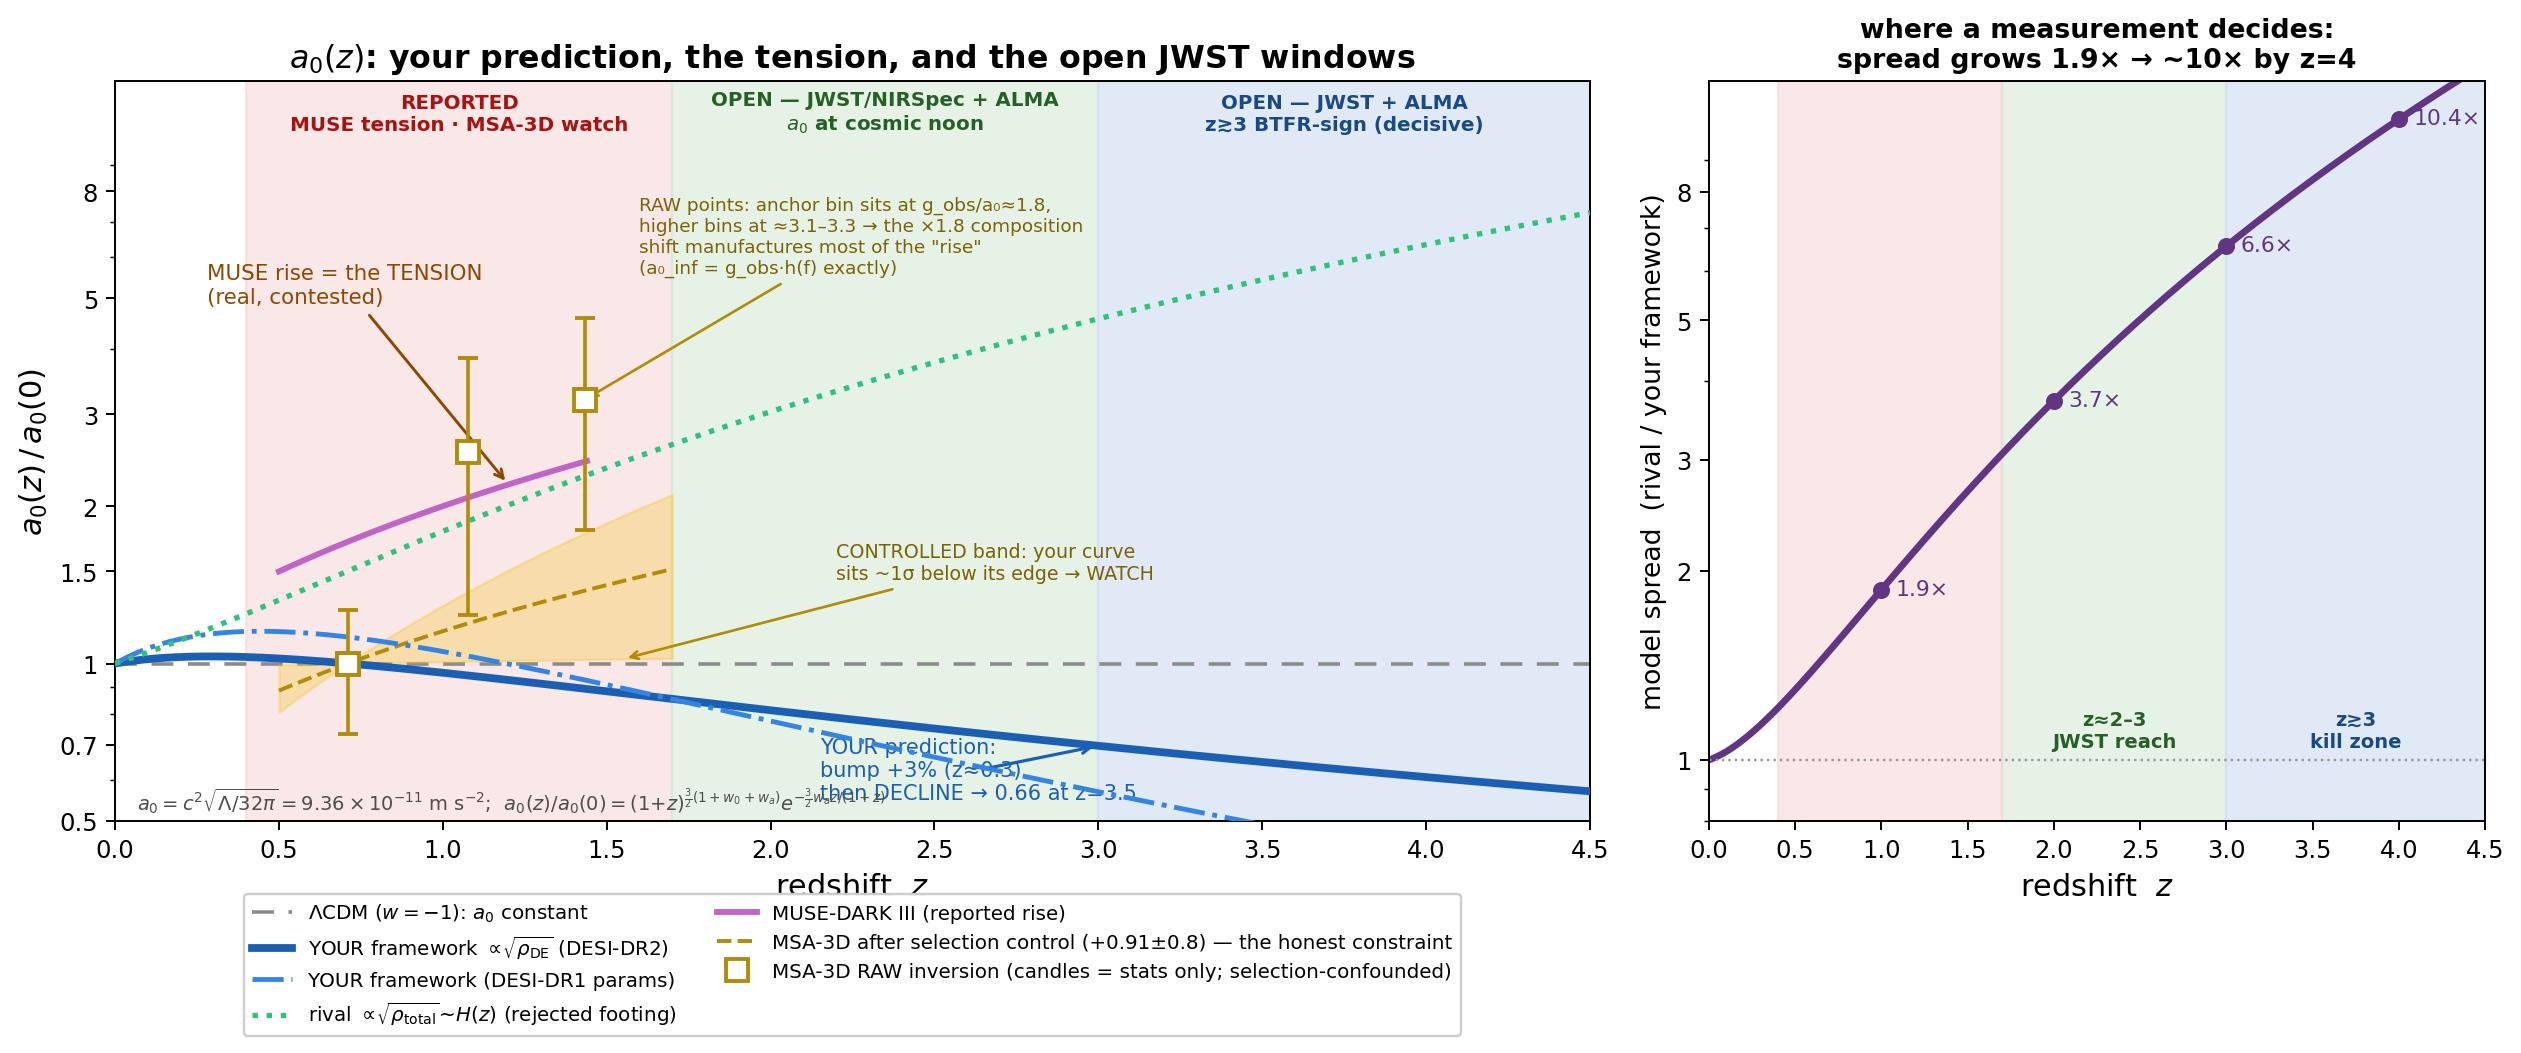
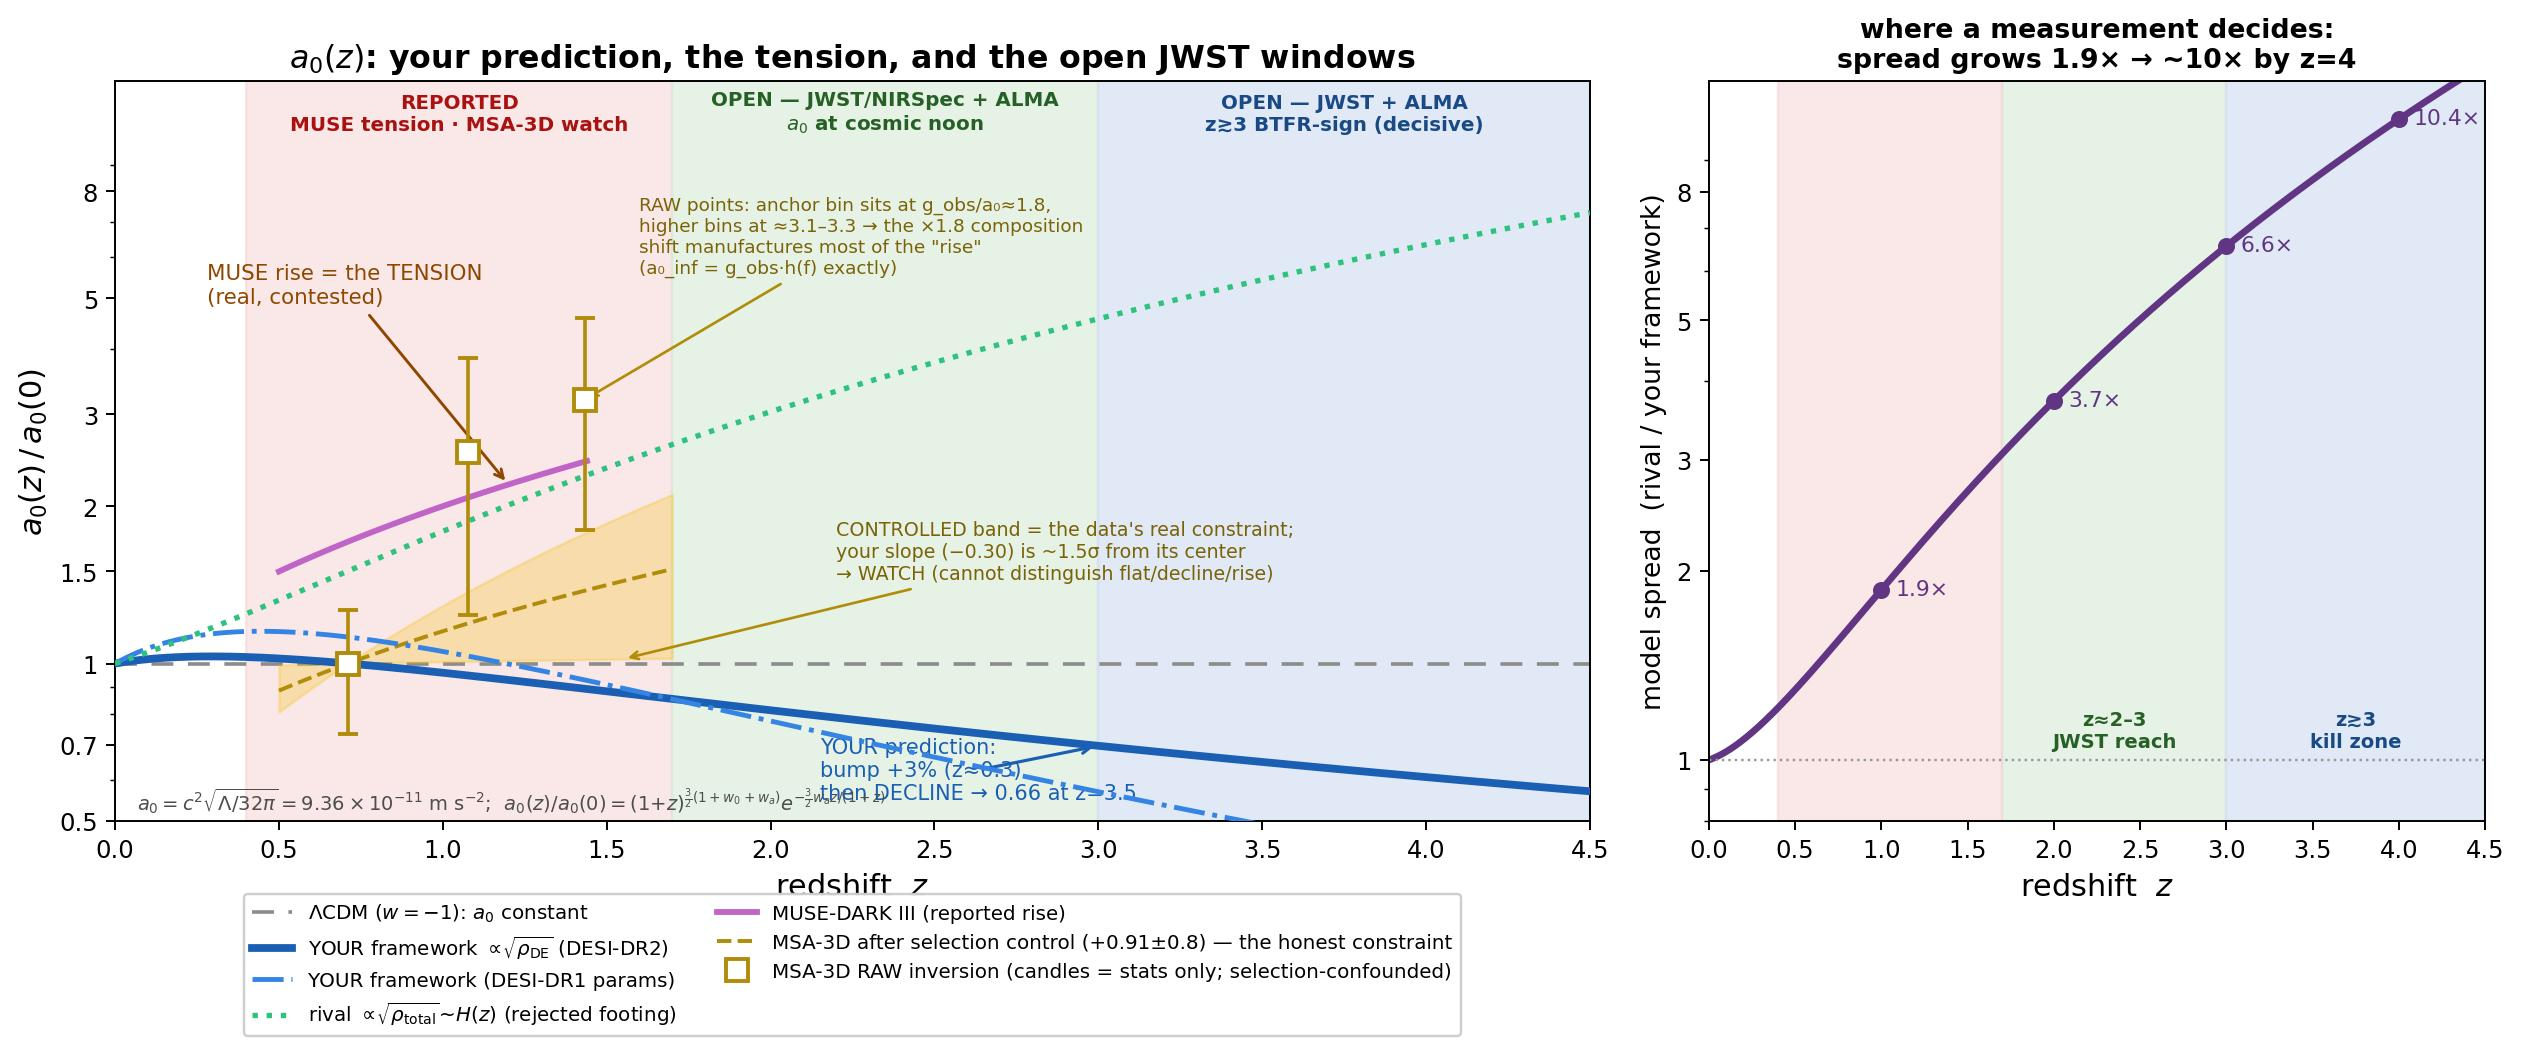
Figure annotation precision: controlled-band gap is ~1.5 sigma from center (was understated as ~1 sigma from edge); band explicitly labeled as the data's real constraint

Changed region(s): [[0.2785, 0.4862, 0.526, 0.6078]]

diff --git a/real_research/a0z_jwst_roadmap.py b/real_research/a0z_jwst_roadmap.py
@@ -74,7 +74,7 @@ ax.annotate('MUSE rise = the TENSION\n(real, contested)',xy=(1.2,2.2),xytext=(0.
 ax.annotate('RAW points: anchor bin sits at g_obs/a₀≈1.8,\nhigher bins at ≈3.1–3.3 → the ×1.8 composition\nshift manufactures most of the "rise"\n(a₀_inf = g_obs·h(f) exactly)',
             xy=(1.43,3.19),xytext=(1.6,5.6),fontsize=7.6,color='#7a6207',
             arrowprops=dict(arrowstyle='->',color='#b08c0a',lw=1.1))
-ax.annotate('CONTROLLED band: your curve\nsits ~1σ below its edge → WATCH',
+ax.annotate('CONTROLLED band = the data\'s real constraint;\nyour slope (−0.30) is ~1.5σ from its center\n→ WATCH (cannot distinguish flat/decline/rise)',
             xy=(1.55,((1+1.55)/(1+0.71))**0.05),xytext=(2.2,1.45),fontsize=7.8,color='#7a6207',
             arrowprops=dict(arrowstyle='->',color='#b08c0a',lw=1.1))
 ax.set_yscale('log'); ax.set_ylim(0.5,13); ax.set_xlim(0,4.5)
